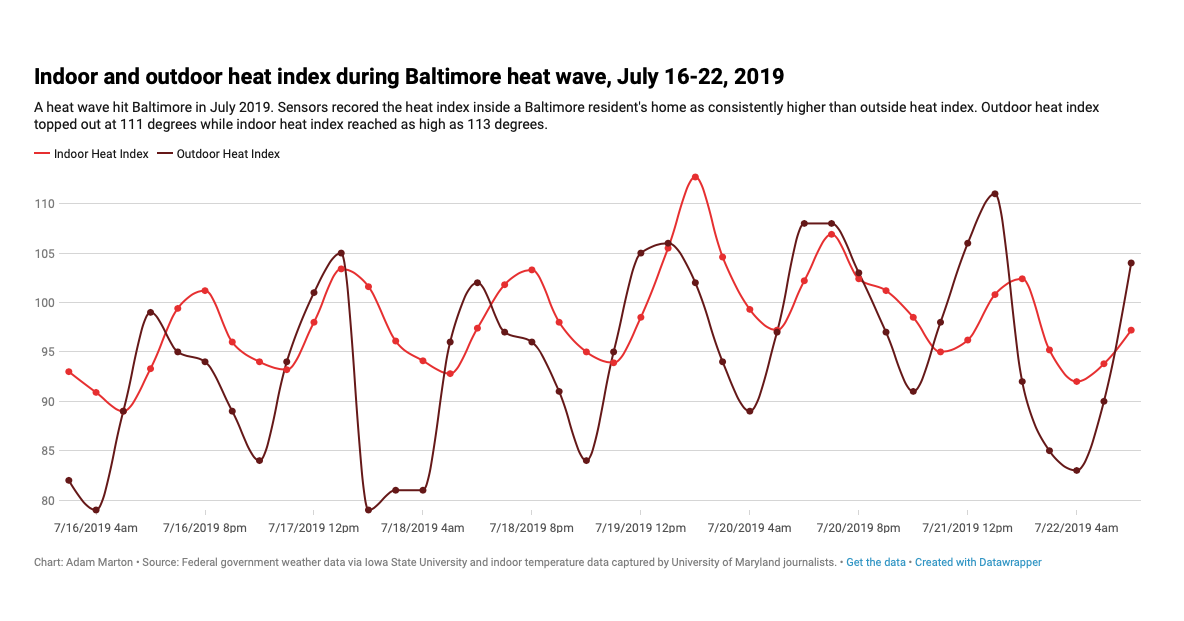
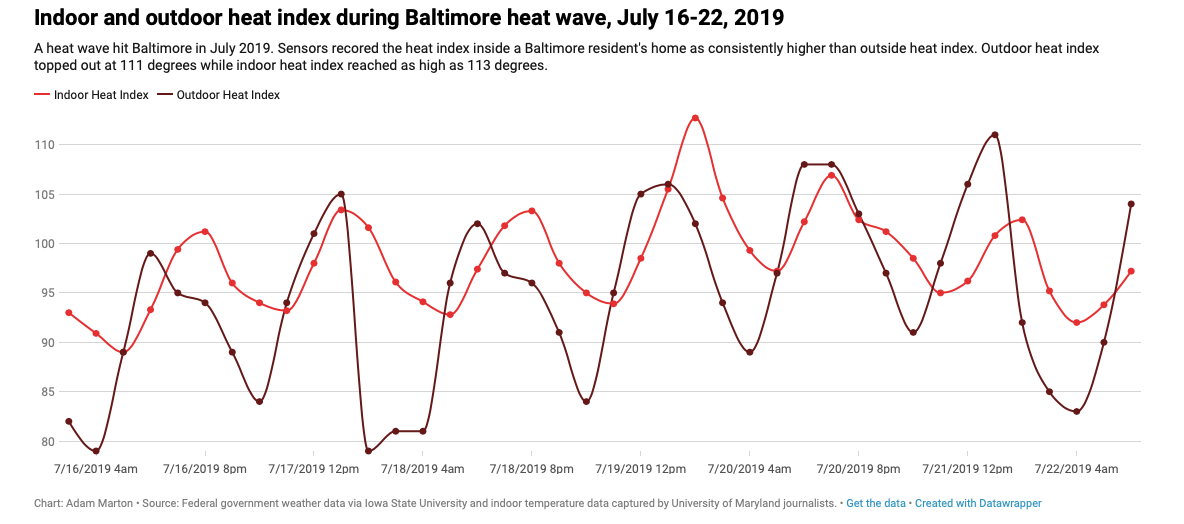
Update

diff --git a/climate-crisis-story/index.html b/climate-crisis-story/index.html
@@ -29,33 +29,25 @@
 <div class="hero-container">
   <img src="images/solomon-simmons.jpg" class="hero-image" alt="Baltimore resident Solomon Simmons takes a break from the heat in his home">
 
-  <div id="caption">This is sample text using the caption CSS layer.
-  </div>
-
   <div class="overlay">
-
     <div class="hero-hed">Heat & Inequality:
-
       <div class="hero-sub">In Baltimore, the burden of rising temperatures isn’t shared.
-
     </div>
-
   </div>
-
 </div>
-
+</div>
+<div id="caption">Solomon Simmons in his East Baltimore home (Photo by Amina Lampkin | University of Maryland)
 </div>
 
 <!-- End hero/splash -->
-
+<br>
 <div class="container">
  <h1 id="headline">In urban heat islands, climate crisis hits harder</h1>
  <p id="byline">STORY BY: IAN ROUND, JAZMIN CONNER, JERMAINE ROWLEY AND SANDY BANISKY</p>
 
 <div id="figure">
   <img src="images/harriett-alexander.jpg">
-  <figcaption>Harriett Alexander, with her dog, Shakur, doesn’t like using her air conditioner because she might not hear someone breaking into her house. (Photo by Maris Medina | University of Maryland) 
-</figcaption>
+  <figcaption>Harriett Alexander, with her dog, Shakur, doesn’t like using her air conditioner because she might not hear someone breaking into her house. (Photo by Maris Medina | University of Maryland) </figcaption>
 </div>
 
 <p>
@@ -81,7 +73,7 @@ In July, Anchorage, Alaska, recorded 90 degrees for the first time. Europe suffe
 <div id="figure">
   <img src="images/amazing-grace-garden.jpg" alt="The garden entrance at Amazing Grace Evangelical Lutheran Church is one of the few green spaces in the McElderry Park neighborhood.
   (Photo by Ian Round | University of Maryland) " class="hero-image">
-<figcaption>The garden entrance at Amazing Grace Evangelical Lutheran Church is one of the few green spaces in the McElderry Park neighborhood. (Photo by Ian Round | University of Maryland) </figcaption>
+<figcaption>The garden entrance at Amazing Grace Evangelical Lutheran Church is one of the few green spaces in the McElderry Park neighborhood. (Photo by Ian Round | University of Maryland)</figcaption>
 </div>
 <p>
 Average annual temperatures in Baltimore have gone up more than 3 degrees over the last century, nearly twice as much as the rest of the country.
@@ -105,6 +97,11 @@ McElderry Park, which despite its lyrical name offers little green space, is one
 <p>
 Residents in the hottest areas have higher rates of chronic illnesses affected by heat, including asthma and COPD. In hot weather, emergency medical calls for some chronic conditions increase. The rate of emergency medical calls for cardiac arrest and congestive heart failure, for example, nearly double when the heat index hits 103 degrees.
 </p>
+<div class="row">
+  <div class="col-md-12" id="graph">
+<img src="graphs/BaltimoreHeatIndex.png" id="graph" alt="Indoor and outdoor heat Index during Baltimore heat wave, July 16-22, 2019, chart by Adam Marton Source: Federal government data via Iowa State University and indoor temperature data captured by University of Maryland journalists">
+</div>
+</div>
 <p>
 "When we talk about the environment,” Lewis said, “we’re talking about human health.”
 The city’s hottest areas are poorer, which means the residents don’t have the resources to move out.
@@ -120,6 +117,12 @@ Sacoby Wilson, who studies applied environmental health as an associate professo
 “Environmental justice and climate change,” Wilson said, “are inextricably linked.”
 The streets have fewer trees than those in more affluent communities. Rowhouses, Baltimore’s signature architecture, trap heat and stay hot even when the heat eases on summer nights. The houses are old, often poorly insulated and hard to maintain. Crime rates are higher, so many people won’t put an air-conditioning unit in a first-floor window for fear of break-ins.
 </p>
+<div class="quote">
+  “We wouldn’t need cooling centers if we had healthy neighborhoods.”
+  <div class="quote-attribution">
+    - Del. Robbyn Lewis of East Baltimore
+  </div>
+</div>
 <p>
 The problems are not new. Many stem from historical segregationist zoning and lending policies that for decades limited where black citizens could live.
 </p>
@@ -133,6 +136,10 @@ As July’s weather emergency bore down, Baltimore’s health department put out
 <p>
 Radio and television stations dutifully broadcast that the city opened cooling centers, where people could rest during the most intense heat. City health officials said the information was also available on its website.
 </p>
+<div class="row">
+  <div class="col-md-12" id="graph"><img src="graphs/BaltimoreCoolingCenters.png" id="graph" alt="Baltimore Cooling Centers, Map by Adam Marton via the Baltimore City Health Department">
+</div>
+</div>
 <p>
 But many East Baltimoreans said during the heat wave that they weren’t aware of any of City Hall’s plans or warnings. Many said they didn’t know cooling centers existed. They never looked at the website.
 </p>
@@ -150,6 +157,10 @@ Stephanie Pingley said she won’t let her three sons — 13, 11 and 7 — play 
 <p>
 A sensor inside a bedroom showed that the heat index during the heat wave was consistently higher inside than outside Pingley’s house.
 </p>
+<div class="row">
+  <div class="col-md-12" id="graph"><img src="graphs/BaltimoreProjectedExtremeHeatEvents2040.png" id="graph" alt="Projected number of extreme heat events in Maryland in 2040, map by Adam Marton Source: Maryland Climate and Health Report">
+</div>
+</div>
 <p>
 Still, she said an air conditioner in the kitchen provides enough relief for the family during the day. She would rather stay home with the shades drawn against the heat than walk her children a mile to a cooling center.
 </p>
@@ -169,6 +180,10 @@ Today, Simmons said, many of his old neighbors have died. Only about four people
 <p>
 He will not put an air-conditioning unit in a first-floor window facing the street “because of security.” He has air conditioning in his bedroom, but he’s mindful that using it costs money.
 </p>
+<div class="row">
+  <div class="col-md-12" id="graph"><img src="graphs/BaltimoreHeatPovertyViolenceGraphs.png" id="graph" alt="The relationship between summer temperature, poverty, and violence in Baltimore, charts by Adam Marton Source: Baltimore Neighborhood Indicators Alliance 2017 demographic data, NOAA Urban Heat Islands Study">
+</div>
+</div>
 <p>
 “One of the things that does concern me is that my electric bill will probably be a lot more just trying to stay cool.”
 </p>
@@ -215,6 +230,10 @@ Twenty people have died of heat-related illnesses in Maryland so far this year, 
 <p>
 From July 16 through July 22, when the heat wave broke, 47 people went to emergency rooms when the heat aggravated chronic conditions such as heart disease, diabetes or lung problems.
 </p>
+<div class="row">
+  <div class="col-md-12" id="graph"><img src="graphs/BaltimoreHeatRelatedDeaths.png" id="graph" alt="Baltimore has more than its share of heat-related deaths in Maryland, chart by Adam Marton Source: the Maryland Department of Health">
+</div>
+</div>
 <p>
 Yet it could have been worse. Heat catastrophes are not theoretical. In Chicago in 1995, more than 700 people died during a five-day heat wave.
 </p>
@@ -278,6 +297,12 @@ On a hot summer day, Melissa Canady walked through the alley behind her rowhouse
 <p>
 “The neighborhood’s so closed in,” she said. “There are so many houses. There’s no air flow. If there was some way you could get some air into the community.”
 </p>
+<div class="quote">
+  “Environmental justice and climate change are inextricably linked.”
+  <div class="quote-attribution">
+  - Sacoby Wilson, University of Maryland public health professor
+  </div>
+</div>
 <p>
 Her backyard looks out onto a patch of green, the Amazing Port Street commons, a block of green space cared for by Amazing Grace Lutheran Church and created when a row of vacant houses was razed. The neighbors sometimes use it for events such as community cookouts.
 </p>
@@ -315,48 +340,17 @@ And what will he do in future summers, as the heat becomes more extreme?
 </p>
 <p>
 Jake Gluck, Jane Gerard, Roxanne Ready, Theresa Diffendal and Sean Mussenden of the University of Maryland contributed to this story. Additional information was also provided by Sean McMinn, Meg Anderson and Nora Eckert of NPR.
-
 </p>
-
 </div>
-
-<div class="container">
-
-<div class="quote">
-  “Environmental justice and climate change are inextricably linked.”
-
-  <div class="quote-attribution">
-  - Sacoby Wilson, University of Maryland public health professor
-  </div>
+<div class="row">
+  <div class="col-md-12" id="graph">
+<img src="images/ClimateSidebar.jpg" id="graph" alt="Source: American Meteoroligical Society's The State of the Climate in 2018">
 </div>
-
-<div class="quote">
-  “We wouldn’t need cooling centers if we had healthy neighborhoods.”
-
-  <div class="quote-attribution">
-    - Del. Robbyn Lewis of East Baltimore
-  </div>
 </div>
-
-<!-- Graph Storage -->
-<img src="graphs/BaltimoreCoolingCenters.png" alt="Baltimore Cooling Centers, Map by Adam Marton via the Baltimore City Health Department">
-
-<img src="graphs/BaltimoreHeatIndex.png" alt="Indoor and outdoor heat Index during Baltimore heat wave, July 16-22, 2019, chart by Adam Marton Source: Federal government data via Iowa State University and indoor temperature data captured by University of Maryland journalists">
-
-<img src="graphs/BaltimoreHeatRelatedDeaths.png" alt="Baltimore has more than its share of heat-related deaths in Maryland, chart by Adam Marton Source: the Maryland Department of Health">
-
-<img src="graphs/BaltimoreProjectedExtremeHeatEvents2040.png" alt="Projected number of extreme heat events in Maryland in 2040, map by Adam Marton Source: Maryland Climate and Health Report">
-
-<img src="graphs/BaltimoreRelationshipBetweenTemperatureandPoverty.png" alt="The relationship between summer temperature and poverty in Baltimore, chart by Adam Marton Source: Baltimore Neighborhood Indicators Alliance 2017 demographic data, NOAA Urban Heat Islands Study">
-
-<img src="graphs/BaltimoreRelationshipBetweenTemperatureandViolence.png" alt="Summer temperature and violence, chart by Adam Marton Source: "Baltimore Neighborhood Indicators Alliance 2017 demographic data, NOAA Urban Heat Islands Study">
-
-<img src="images/ClimateSidebar.jpg" alt="Source: American Meteoroligical Society's The State of the Climate in 2018">
 
 <script src="https://code.jquery.com/jquery-3.4.1.slim.min.js" integrity="sha384-J6qa4849blE2+poT4WnyKhv5vZF5SrPo0iEjwBvKU7imGFAV0wwj1yYfoRSJoZ+n" crossorigin="anonymous"></script>
 <script src="https://cdn.jsdelivr.net/npm/popper.js@1.16.0/dist/umd/popper.min.js" integrity="sha384-Q6E9RHvbIyZFJoft+2mJbHaEWldlvI9IOYy5n3zV9zzTtmI3UksdQRVvoxMfooAo" crossorigin="anonymous"></script>
 <script src="https://stackpath.bootstrapcdn.com/bootstrap/4.4.1/js/bootstrap.min.js" integrity="sha384-wfSDF2E50Y2D1uUdj0O3uMBJnjuUD4Ih7YwaYd1iqfktj0Uod8GCExl3Og8ifwB6" crossorigin="anonymous"></script>
-
 <script src="https://cdn.jsdelivr.net/npm/@popperjs/core@2.9.2/dist/umd/popper.min.js" integrity="sha384-IQsoLXl5PILFhosVNubq5LC7Qb9DXgDA9i+tQ8Zj3iwWAwPtgFTxbJ8NT4GN1R8p" crossorigin="anonymous"></script>
 <script src="https://cdn.jsdelivr.net/npm/bootstrap@5.0.2/dist/js/bootstrap.min.js" integrity="sha384-cVKIPhGWiC2Al4u+LWgxfKTRIcfu0JTxR+EQDz/bgldoEyl4H0zUF0QKbrJ0EcQF" crossorigin="anonymous"></script>
 

diff --git a/climate-crisis-story/style.css b/climate-crisis-story/style.css
@@ -46,6 +46,12 @@ p {
     padding: 0.5em;
 }
 
+#graph {
+  float: center;
+  width: 100%;
+  
+}
+
 #footer
 {
   font-size: 1em;
